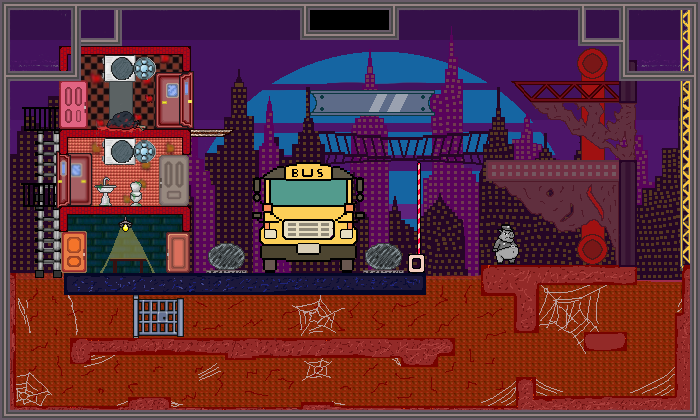
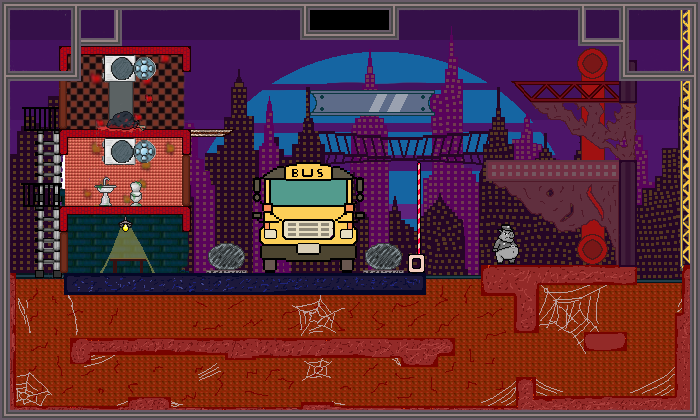
Puertas incluidas al escenario

diff --git a/Practica/Scenes/GameScene.js b/Practica/Scenes/GameScene.js
@@ -36,6 +36,15 @@ class GameScene extends Phaser.Scene {
     this.load.image("closedDoor", "./Objetos/closeddoor.png");
     this.load.image("Marcador", "./Escenario/Marcador.png");
 
+    this.load.image("carcelAbierta", "./Objetos/carcelAbierta.png");
+    this.load.image("carcelCerrada", "./Objetos/carcelCerrada.png");
+    this.load.image("puerta1Abierta", "./Objetos/puerta1Abierta.png");
+    this.load.image("puerta1Cerrada", "./Objetos/puerta1Cerrada.png");
+    this.load.image("puerta2Abierta", "./Objetos/puerta2Abierta.png");
+    this.load.image("puerta2Cerrada", "./Objetos/puerta2Cerrada.png");
+    this.load.image("puerta3Abierta", "./Objetos/puerta3Abierta.png");
+    this.load.image("puerta3Cerrada", "./Objetos/puerta3Cerrada.png");
+
     this.load.atlas(
       "policia",
       "./Personajes/Policia_Spritesheet.png",
@@ -115,17 +124,10 @@ class GameScene extends Phaser.Scene {
     this.canUseTrampilla1 = true;
     this.canUseTrampilla2 = true;
 
-    //Variable de puerta
-    this.aDoorIsClosed = false;
-
     // Agregar objetos y suelo
     this.ground = this.physics.add.staticGroup();
 
     this.ground.create(960, 540, "escenario").setDepth(-1);
-    // this.ground.create(500, 900, 'Suelo');
-    // this.ground.create(1400, 900, 'Suelo');
-    // this.ground.create(1800, 650, 'Suelo');
-    // this.ground.create(1000, 900, 'Pared');
 
     // Agregar los personajes con físicas
     this.playerPolicia = this.physics.add.sprite(1215, 705, "policia");
@@ -421,39 +423,65 @@ class GameScene extends Phaser.Scene {
     this.ObjectVentilacion2.setTint(0x00ff00);
 
     
-    this.objectOpenDoor = this.physics.add
-      .staticImage(1400, 780, "openDoor")
-      .setScale(0.05);
-    this.objectOpenDoor.refreshBody();
-    this.objectOpenDoor.body.setSize(
-      this.objectOpenDoor.width * 0.05 * 1.5,
-      this.objectOpenDoor.height * 0.05
-    );
-    this.objectOpenDoor.body.setOffset(
-      -(
-        this.objectOpenDoor.width * 0.05 * 1.5 -
-        this.objectOpenDoor.width * 0.05
-      ) / 2,
-      0
-    );
+    this.carcelOpenDoor = this.physics.add
+      .staticImage(780, 647, "carcelAbierta")
+      .setSize(70, 50);
 
-    this.objectClosedDoor = this.physics.add
-      .staticImage(1400, 780, "closedDoor")
-      .setScale(0.13);
-    this.objectClosedDoor.refreshBody();
-    this.objectClosedDoor.body.setSize(
-      this.objectClosedDoor.width * 0.13 * 0.3,
-      this.objectClosedDoor.height * 0.13
-    );
-    this.objectClosedDoor.body.setOffset(
-      (this.objectClosedDoor.width * 0.13 -
-        this.objectClosedDoor.width * 0.13 * 0.3) /
-        2,
-      0
-    );
+    this.carcelClosedDoor = this.physics.add
+      .staticImage(780, 647, "carcelCerrada")
+      .setSize(10, 50);
 
-    this.objectClosedDoor.setVisible(false);
-    this.objectClosedDoor.body.enable = false;
+    this.carcelClosedDoor.setVisible(false);
+    this.carcelClosedDoor.body.enable = false;
+
+    this.floor1OpenDoor = this.physics.add
+    .staticImage(789, 583, "puerta1Abierta")
+    .setSize(55, 50);
+
+    this.floor1ClosedDoor = this.physics.add
+        .staticImage(793, 583, "puerta1Cerrada")
+        .setSize(14, 50);
+
+    this.floor1ClosedDoor.setVisible(false);
+    this.floor1ClosedDoor.body.enable = false;
+
+    this.floor2OpenDoor = this.physics.add
+    .staticImage(685, 510, "puerta2Abierta")
+    .setSize(55, 50);
+
+    this.floor2ClosedDoor = this.physics.add
+        .staticImage(678, 510, "puerta2Cerrada")
+        .setSize(15, 50);
+
+    this.floor2ClosedDoor.setVisible(false);
+    this.floor2ClosedDoor.body.enable = false;
+
+    this.floor3OpenDoor = this.physics.add
+    .staticImage(785, 430, "puerta3Abierta")
+    .setSize(55, 55);
+
+    this.floor3ClosedDoor = this.physics.add
+        .staticImage(792, 430, "puerta3Cerrada")
+        .setSize(16, 52);
+
+    this.floor3ClosedDoor.setVisible(false);
+    this.floor3ClosedDoor.body.enable = false;
+
+    //Variable de puerta
+    this.puerta1IsClosed = false;
+    this.puerta2IsClosed = false;
+    this.puerta3IsClosed = false;
+    this.carcelIsClosed = false;
+
+    //Fisicas de puertas cerradas
+    this.physics.add.collider(this.playerPolicia, this.carcelClosedDoor);
+    this.physics.add.collider(this.playerLadron, this.carcelClosedDoor);
+    this.physics.add.collider(this.playerPolicia, this.floor1ClosedDoor);
+    this.physics.add.collider(this.playerLadron, this.floor1ClosedDoor);
+    this.physics.add.collider(this.playerPolicia, this.floor2ClosedDoor);
+    this.physics.add.collider(this.playerLadron, this.floor2ClosedDoor);
+    this.physics.add.collider(this.playerPolicia, this.floor3ClosedDoor);
+    this.physics.add.collider(this.playerLadron, this.floor3ClosedDoor);
 
     // Lógica de control del ladrón
     this.LadronMovement = true;
@@ -475,9 +503,6 @@ class GameScene extends Phaser.Scene {
       null,
       this
     );
-
-    this.physics.add.collider(this.playerPolicia, this.objectClosedDoor);
-    this.physics.add.collider(this.playerLadron, this.objectClosedDoor);
 
     this.physics.add.collider(
       this.playerLadron,
@@ -565,29 +590,96 @@ class GameScene extends Phaser.Scene {
       );
 
     //Cierre de puertas
-    this.physics.add.overlap(this.playerLadron, this.objectOpenDoor, () => {
-      if (this.thiefInteract.isDown && !this.aDoorIsClosed) {
-        console.log("Crossed a door");
-        //Here objectOpenDoor is temporarily disabled.
+    this.physics.add.overlap(this.playerLadron, this.carcelOpenDoor, () => {
+      if (this.thiefInteract.isDown && !this.carcelIsClosed) {
 
-        this.objectOpenDoor.setVisible(false);
-        this.objectOpenDoor.body.enable = false;
+        this.carcelOpenDoor.setVisible(false);
+        this.carcelOpenDoor.body.enable = false;
 
-        this.objectClosedDoor.setVisible(true);
-        this.objectClosedDoor.body.enable = true;
+        this.carcelClosedDoor.setVisible(true);
+        this.carcelClosedDoor.body.enable = true;
 
-        this.aDoorIsClosed = true;
+        this.carcelIsClosed = true;
 
         this.time.delayedCall(10000, () => {
-          this.objectOpenDoor.setVisible(true);
-          this.objectOpenDoor.body.enable = true;
+          this.carcelOpenDoor.setVisible(true);
+          this.carcelOpenDoor.body.enable = true;
 
-          this.objectClosedDoor.setVisible(false);
-          this.objectClosedDoor.body.enable = false;
+          this.carcelClosedDoor.setVisible(false);
+          this.carcelClosedDoor.body.enable = false;
 
-          this.aDoorIsClosed = false;
+          this.carcelIsClosed = false;
         });
       }
+    });
+
+    this.physics.add.overlap(this.playerLadron, this.floor1OpenDoor, () => {
+        if (this.thiefInteract.isDown && !this.puerta1IsClosed) {
+
+            this.floor1OpenDoor.setVisible(false);
+            this.floor1OpenDoor.body.enable = false;
+
+            this.floor1ClosedDoor.setVisible(true);
+            this.floor1ClosedDoor.body.enable = true;
+
+            this.puerta1IsClosed = true;
+
+            this.time.delayedCall(10000, () => {
+                this.floor1OpenDoor.setVisible(true);
+                this.floor1OpenDoor.body.enable = true;
+
+                this.floor1ClosedDoor.setVisible(false);
+                this.floor1ClosedDoor.body.enable = false;
+
+                this.puerta1IsClosed = false;
+            });
+        }
+    });
+
+    this.physics.add.overlap(this.playerLadron, this.floor2OpenDoor, () => {
+        if (this.thiefInteract.isDown && !this.puerta2IsClosed) {
+
+            this.floor2OpenDoor.setVisible(false);
+            this.floor2OpenDoor.body.enable = false;
+
+            this.floor2ClosedDoor.setVisible(true);
+            this.floor2ClosedDoor.body.enable = true;
+
+            this.puerta2IsClosed = true;
+
+            this.time.delayedCall(10000, () => {
+                this.floor2OpenDoor.setVisible(true);
+                this.floor2OpenDoor.body.enable = true;
+
+                this.floor2ClosedDoor.setVisible(false);
+                this.floor2ClosedDoor.body.enable = false;
+
+                this.puerta2IsClosed = false;
+            });
+        }
+    });
+
+    this.physics.add.overlap(this.playerLadron, this.floor3OpenDoor, () => {
+        if (this.thiefInteract.isDown && !this.puerta3IsClosed) {
+
+            this.floor3OpenDoor.setVisible(false);
+            this.floor3OpenDoor.body.enable = false;
+
+            this.floor3ClosedDoor.setVisible(true);
+            this.floor3ClosedDoor.body.enable = true;
+
+            this.puerta3IsClosed = true;
+
+            this.time.delayedCall(10000, () => {
+                this.floor3OpenDoor.setVisible(true);
+                this.floor3OpenDoor.body.enable = true;
+
+                this.floor3ClosedDoor.setVisible(false);
+                this.floor3ClosedDoor.body.enable = false;
+
+                this.puerta3IsClosed = false;
+            });
+        }
     });
 
     //this.cursors = this.input.keyboard.createCursorKeys();  // Para el policía (flecha arriba)

diff --git a/Practica/game.js b/Practica/game.js
@@ -15,11 +15,12 @@ const config = {
     height: 1080,
     parent: 'gameContainer',  // Contenedor en el HTML
     scene: [GameScene, MainMenuScene, GameModeScene, RoleSelectScene, PauseScene, VictoryScene, CreditsScene],
+    pixelArt: true,
     physics: {
         default: 'arcade',
         arcade: {
             gravity: { y: 1200 },
-            debug: false
+            debug: true
         }
     },
     scale: {
